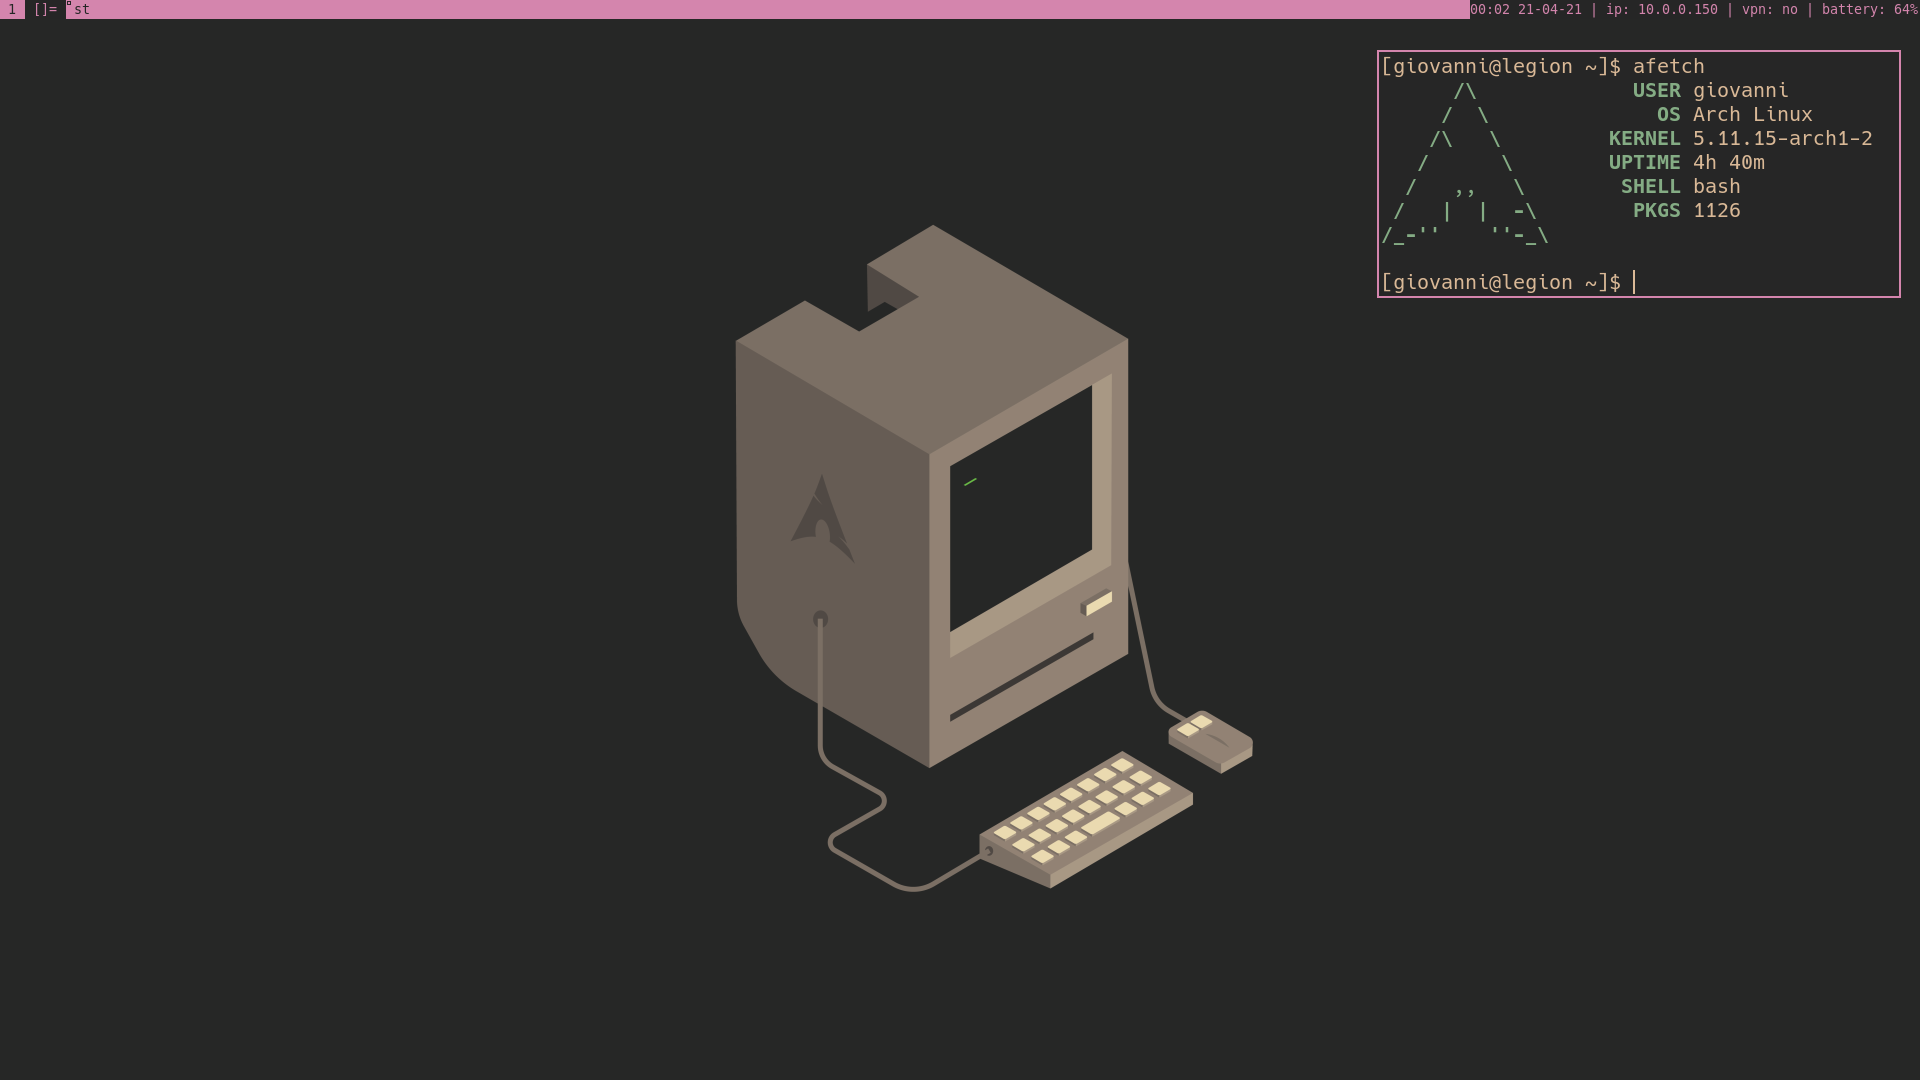
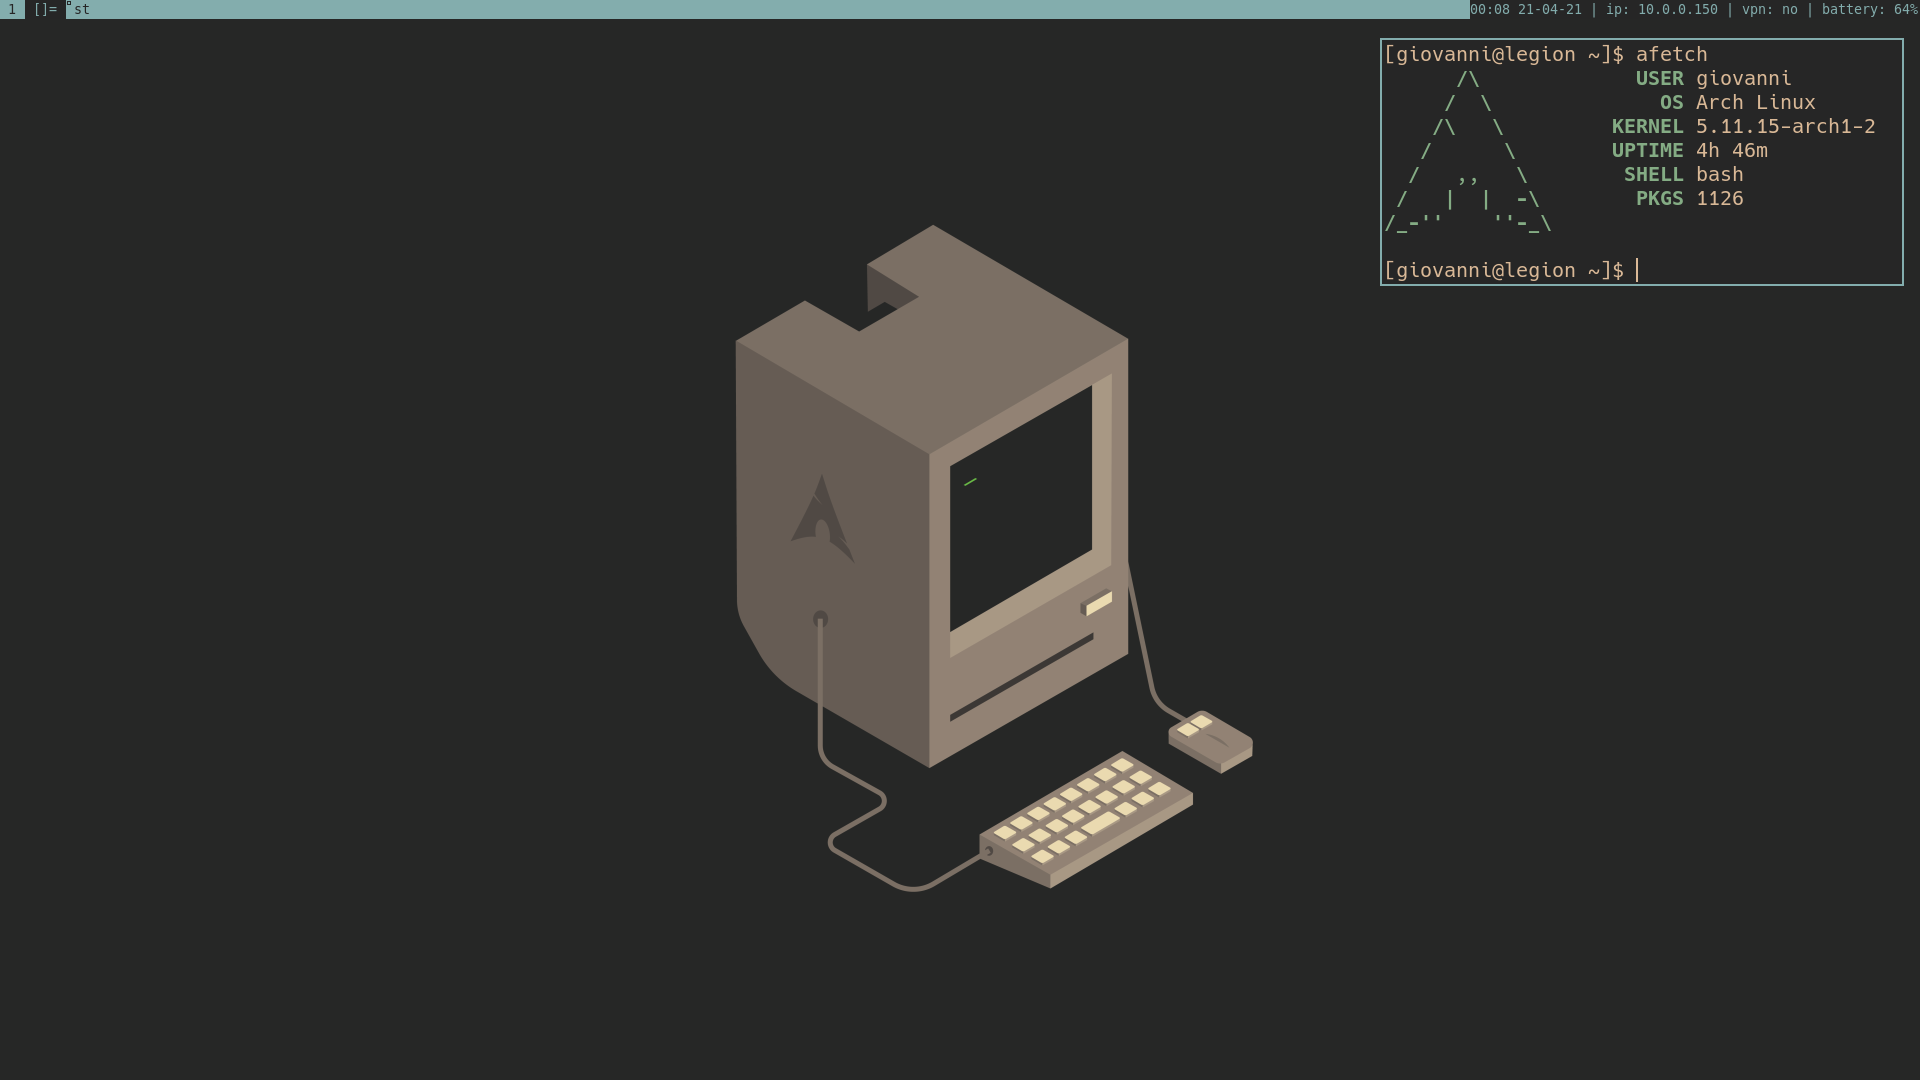
blue

diff --git a/dwm/config.h b/dwm/config.h
@@ -28,7 +28,7 @@ static char *colors[][3] = {
        [SchemeSel]  = { selfgcolor,  selbgcolor,  selbordercolor  },
 };
 
-static char main_xresource_color[] = "color5";
+static char main_xresource_color[] = "color4";
 
 typedef struct {
 	const char *name;
@@ -190,7 +190,7 @@ static Key keys[] = {
 	{ MODKEY|ShiftMask,		XK_a,		defaultgaps,	{0} },
 	{ MODKEY,			XK_s,		togglesticky,	{0} },
 	/* { MODKEY|ShiftMask,		XK_s,		spawn,		SHCMD("") }, */
-	{ MODKEY,			XK_d,		spawn,          SHCMD("dmenu_run -nb '#1e1e1e' -sf '#1e1e1e' -sb '#d485ad' -nf '#d485ad' ") },
+	{ MODKEY,			XK_d,		spawn,          SHCMD("dmenu_run -nb '#1e1e1e' -sf '#1e1e1e' -sb '#83adad' -nf '#83adad' ") },
 	// { MODKEY|ShiftMask,		XK_d,		spawn,		SHCMD("passmenu") },
 	{ MODKEY,			XK_f,		togglefullscr,	{0} },
 	{ MODKEY|ShiftMask,		XK_f,		setlayout,	{.v = &layouts[8]} },
